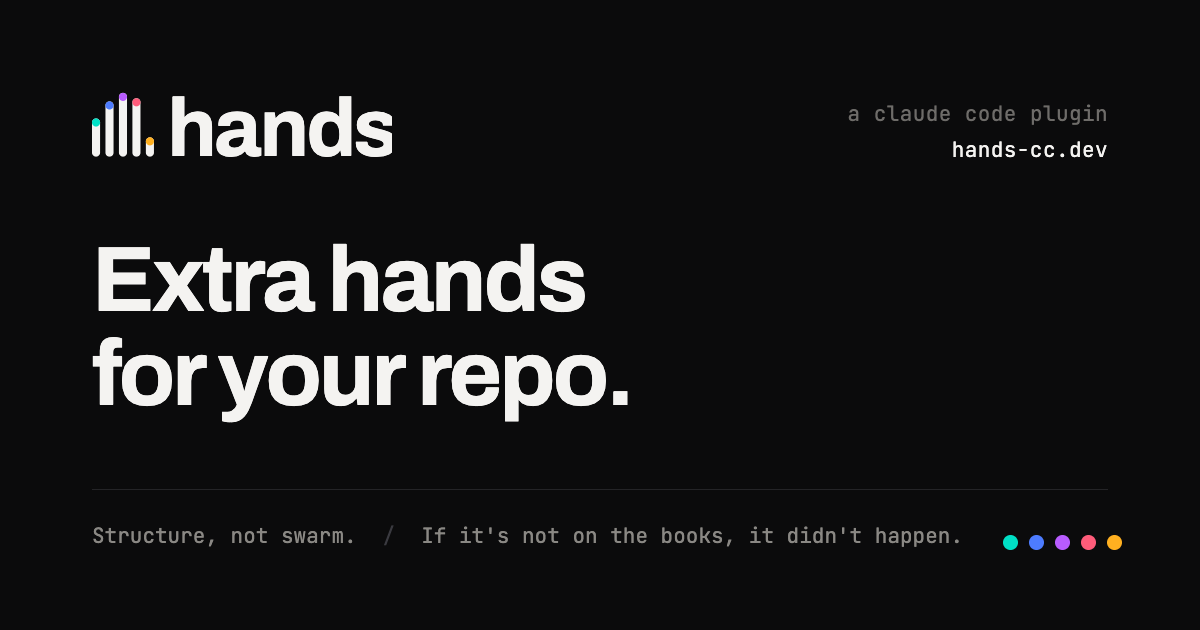
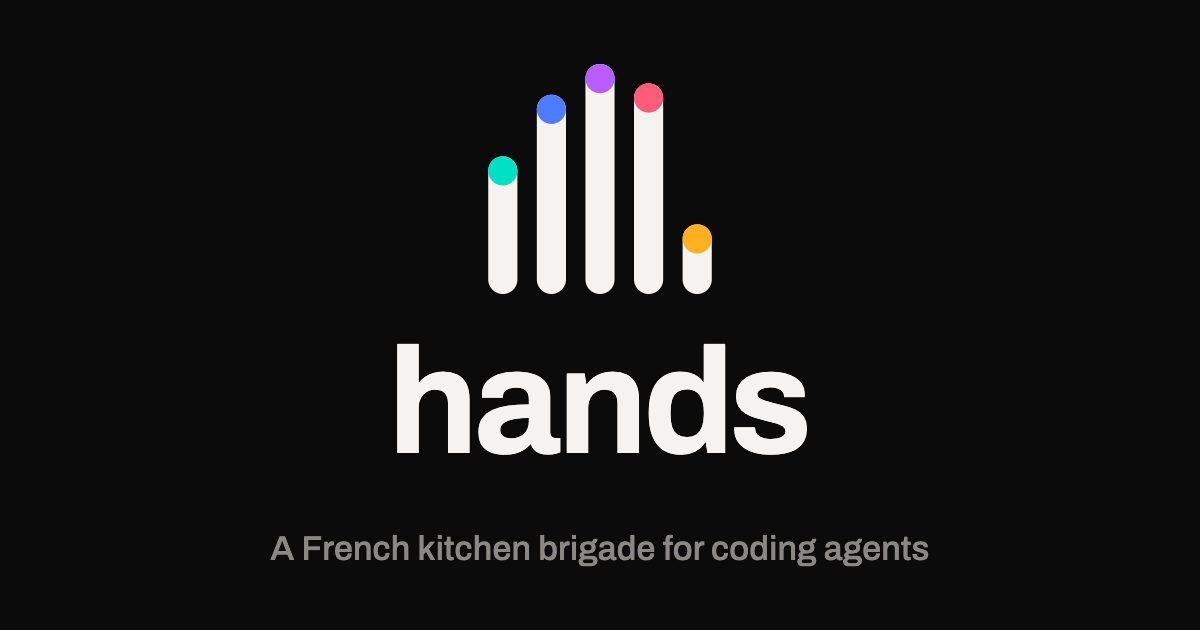
brand: ship the regenerated social assets — light variant is new (hands#118) (#231)
og-image.png, twitter-card.png, and github-avatar-512.png still carried the
retired "Extra hands for your repo." tagline — hands-cc.dev/og-image.png
was confirmed serving it live, so every link preview across Slack/iMessage/
social has been showing a tagline that exists nowhere else in the brand.
Replaced all three with the regenerated set carrying the current tagline
("A French kitchen brigade for coding agents"), verified visually before
overwriting, not just copied on the ticket's say-so.

github-avatar-512.png is byte-identical to what was already committed —
verified, not assumed: the avatar carries no tagline text at all (just the
mark + wordmark), so it was never affected by the tagline change and there
was nothing to replace.

New: og-image-light.png (1200×630), a light-background variant with no
prior equivalent. BRAND.md §6 updated to list it plus a one-line note on
when to use which — dark is the default, light is for a surface known to
render OG cards on a light background.

diff --git a/brand/BRAND.md b/brand/BRAND.md
@@ -119,8 +119,12 @@ five is the mark, and the mark is the legend.
               safari-pinned-tab.svg, site.webmanifest, head-snippet.html
     ios/      AppIcon.appiconset with Contents.json — drop into Xcode
     android/  mipmap-*/ic_launcher.png, adaptive foreground + background, Play 512
-    social/   og-image.png (1200×630), twitter-card.png, github-avatar-512.png
+    social/   og-image.png (1200×630), twitter-card.png, og-image-light.png (1200×630),
+              github-avatar-512.png
     tokens/   CSS, SCSS, JSON, Swift, Android XML, Tailwind, TUI/ANSI table
+
+`og-image.png` is the default (dark) — use it unless a surface is known to render OG images
+on a light background, where `og-image-light.png` avoids a dark card floating on white.
 
 ### Favicon note
 At 16 px each nail is ~2 device px; five hues inside 2 px land within a couple of 8-bit
